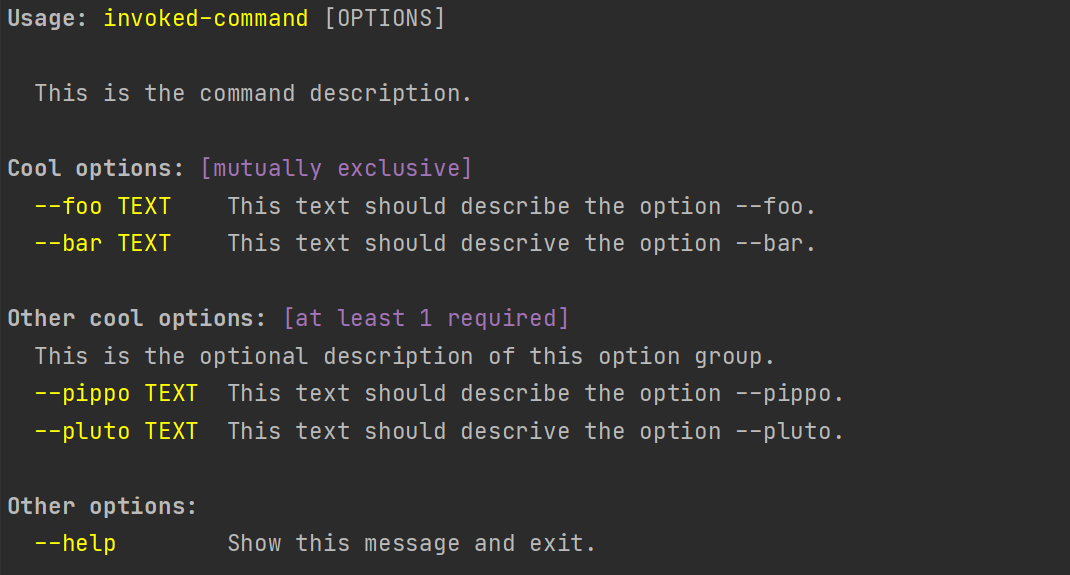
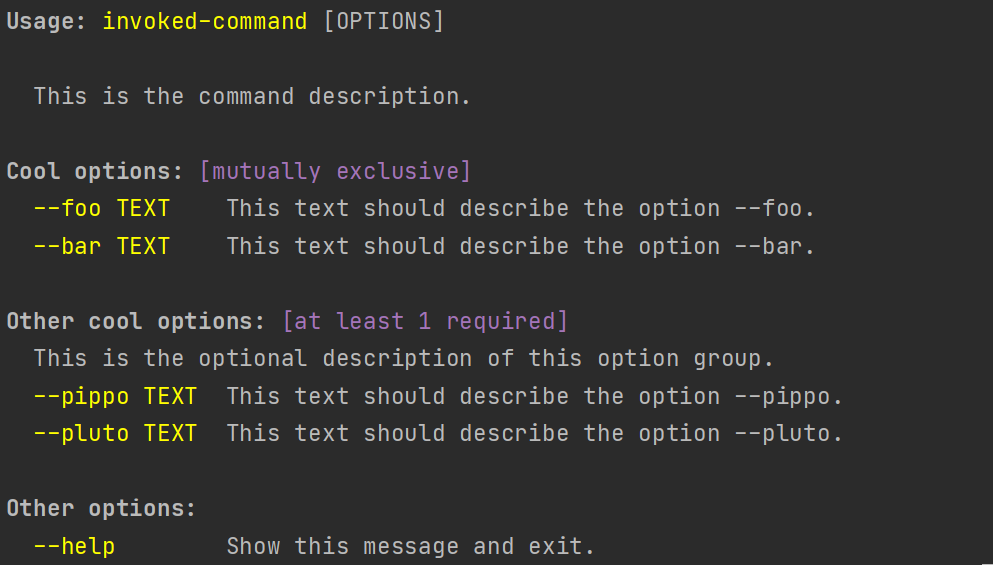
Docs: fix typo in basic example

diff --git a/README.rst b/README.rst
@@ -89,14 +89,14 @@ Basic example
     @option_group(
         "Cool options",
         option('--foo', help='This text should describe the option --foo.'),
-        option('--bar', help='This text should descrive the option --bar.'),
+        option('--bar', help='This text should describe the option --bar.'),
         constraint=mutually_exclusive,
     )
     @option_group(
         "Other cool options",
         "This is the optional description of this option group.",
         option('--pippo', help='This text should describe the option --pippo.'),
-        option('--pluto', help='This text should descrive the option --pluto.'),
+        option('--pluto', help='This text should describe the option --pluto.'),
         constraint=RequireAtLeast(1),
     )
     def cmd(**kwargs):
